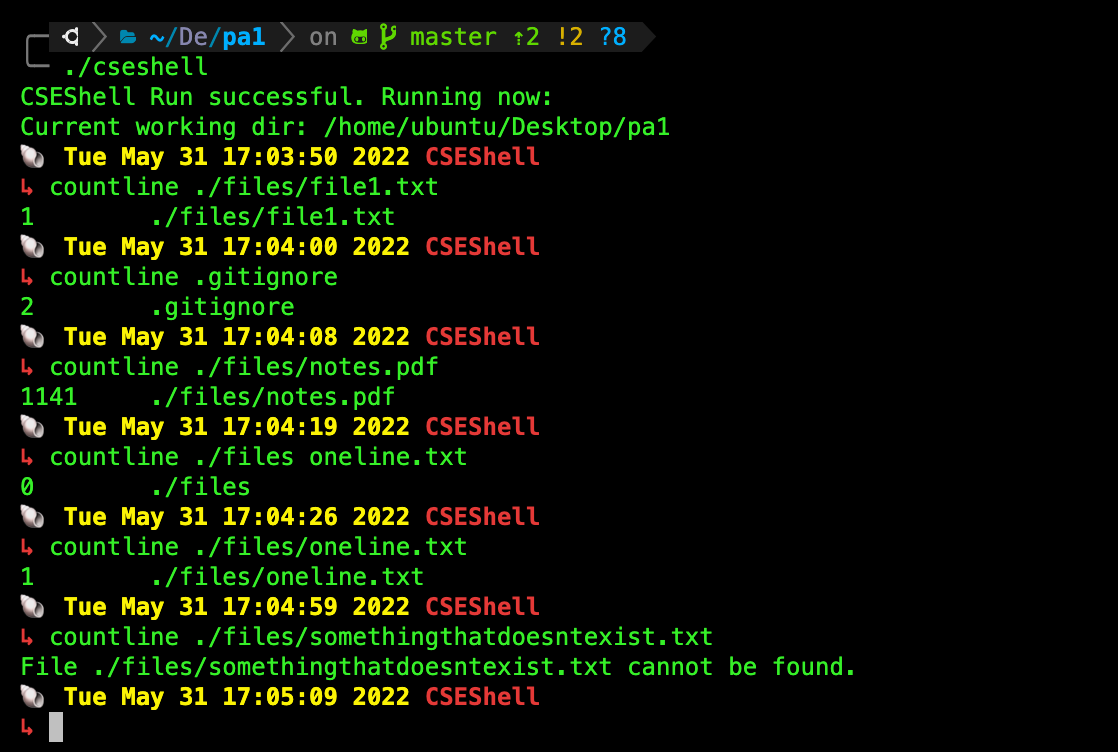
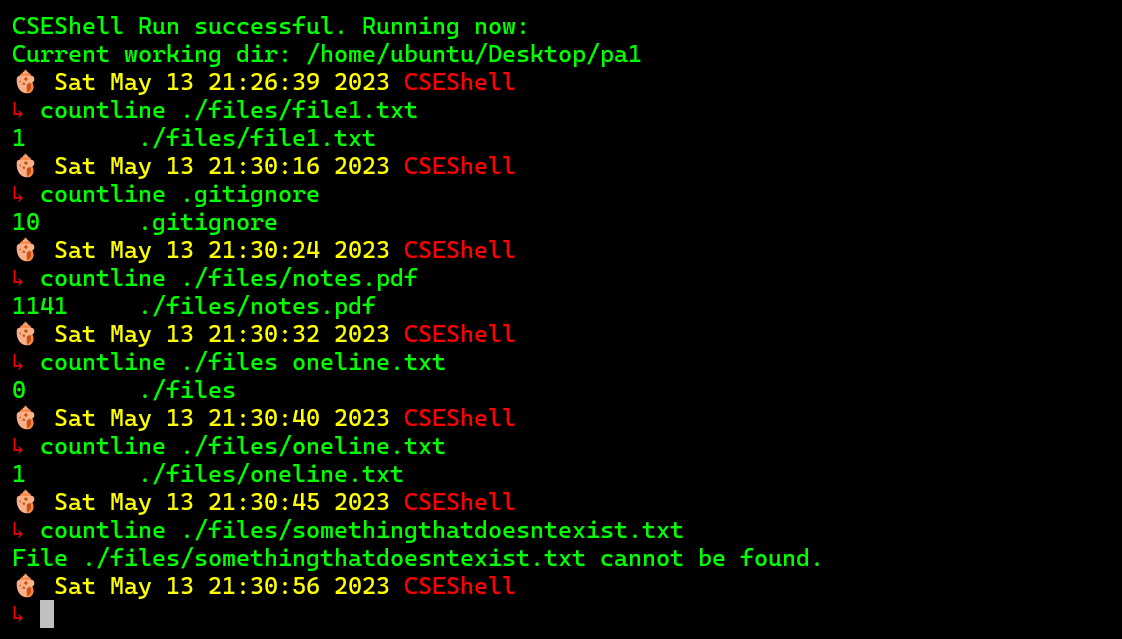
fix: update screenshot for countline in pa1

Changed region(s): [[0.0, 0.0297, 0.7603, 1.0]]

diff --git a/_assignments/pa1_3_sysprogs.md b/_assignments/pa1_3_sysprogs.md
@@ -60,10 +60,18 @@ Simply <span style="color:#f7007f;"><b>recompile</b></span> with `make`
 The `countline` system program must work as follows. Look at these outputs <span style="color:#f77729;"><b>carefully</b></span>, and no, there's no typos there. 
 <img src="/50005/assets/images/pa1/7.png"  class="center_fifty"/>
 
-<span style="color:#f7007f;"><b>Update</b></span>: at the time of the writing of this handout, the content of `.gitignore` was simply as follows (2 lines). 
+<span style="color:#f7007f;"><b>Update</b></span>: at the time of the writing of this handout, the content of `.gitignore` was simply as follows (10 lines). 
 ```
-.DS_Store
 .vscode/
+.DS_Store
+checkdaemon
+countline
+display
+find
+listdir
+listdirall
+summond
+cseshell
 ```
 If you update the `.gitignore`, adjust the answer accordingly. 
 
